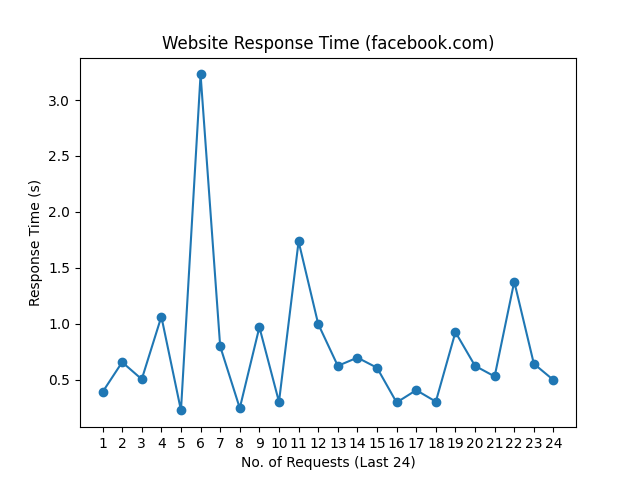
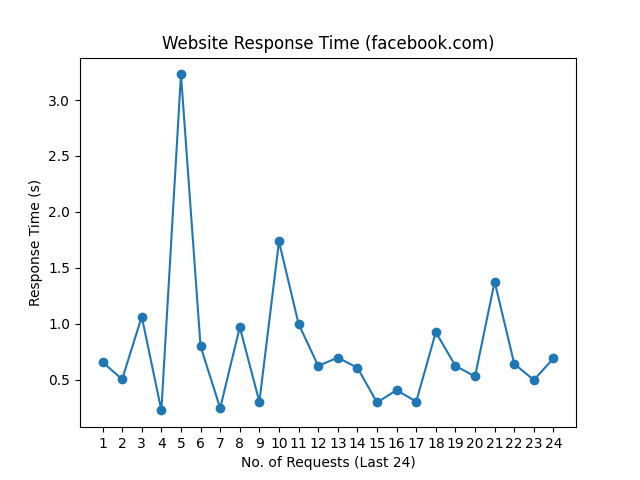
update README.md, history and graph

Changed region(s): [[0.1562, 0.125, 0.875, 0.875]]

diff --git a/README.md b/README.md
@@ -1,10 +1,10 @@
 # Web Monitoring
 
-Last Checked: 26/07/2024 08:17
+Last Checked: 27/07/2024 08:17
 
 | Website | Response Time (s) | Status | Avg Uptime (%) |
 |---------|-------------------|--------|----------------|
 | www.thiswebsiteisdown.net | 0 <br> <img src="graph/thiswebsiteisdown.net.png" alt="Graph" width="200" height="200">  | ❌ Down | 0.00 |
-| www.netflix.com | 0.970823 <br> <img src="graph/netflix.com.png" alt="Graph" width="200" height="200">  | ✅ Up | 100.00 |
-| www.google.com | 0.068814 <br> <img src="graph/google.com.png" alt="Graph" width="200" height="200">  | ✅ Up | 100.00 |
-| www.facebook.com | 0.497741 <br> <img src="graph/facebook.com.png" alt="Graph" width="200" height="200">  | ✅ Up | 100.00 |
+| www.netflix.com | 0.520391 <br> <img src="graph/netflix.com.png" alt="Graph" width="200" height="200">  | ✅ Up | 100.00 |
+| www.google.com | 0.164493 <br> <img src="graph/google.com.png" alt="Graph" width="200" height="200">  | ✅ Up | 100.00 |
+| www.facebook.com | 0.691577 <br> <img src="graph/facebook.com.png" alt="Graph" width="200" height="200">  | ✅ Up | 100.00 |
